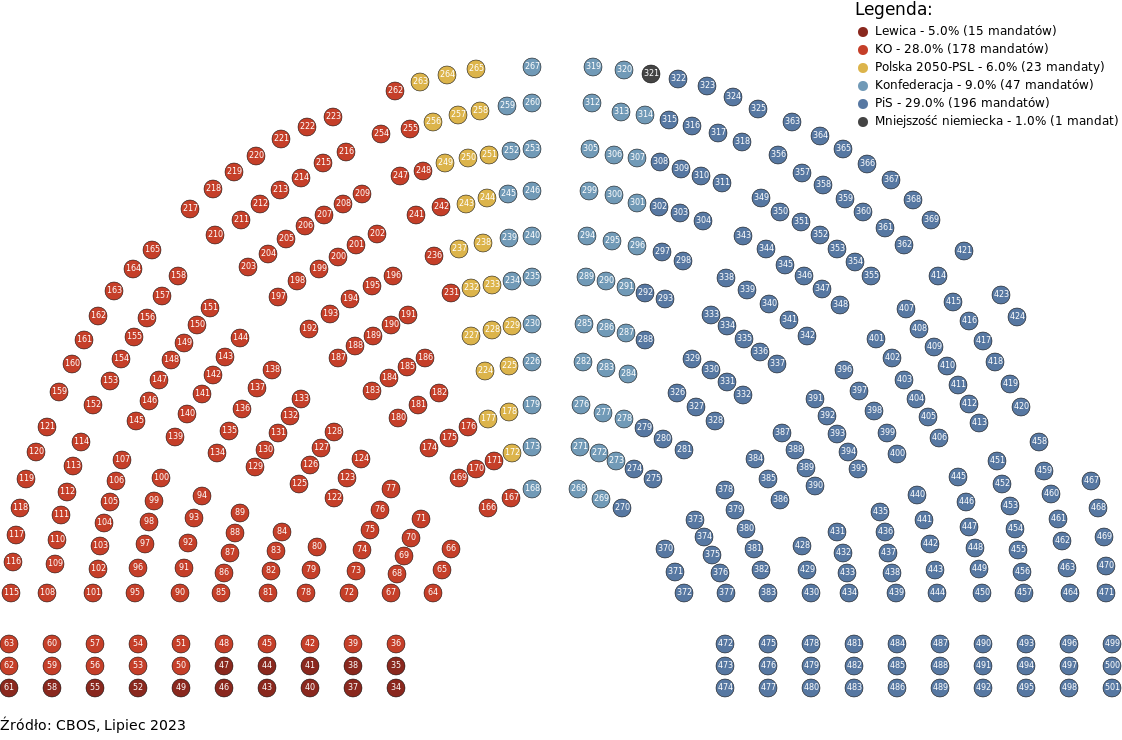
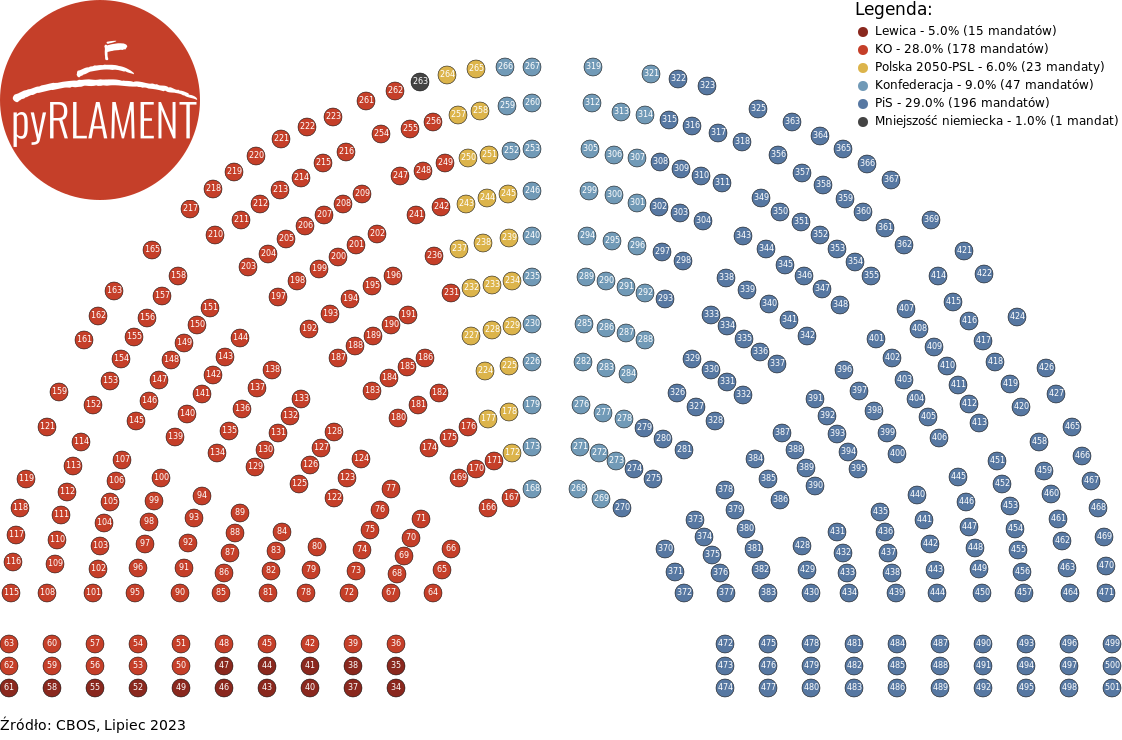
Patch (szpachla) for image conversion

diff --git a/pyrlament/generator.py b/pyrlament/generator.py
@@ -11,6 +11,8 @@ from pyrlament.configs import PYRLAMENT_PROPERTIES
 from pyrlament.data import GERMAN_MINORITY, Party
 
 
+from PIL import Image, ImageDraw, ImageFilter
+
 class Seat(BaseModel):
     cx: float
     cy: float
@@ -101,6 +103,8 @@ class SeatsGenerator:
     _include_seats_numbers: bool
     _seats_numbers_color: Optional[str]
     _skip_empty_seats: bool
+
+    _svg = None
 
     def __init__(
         self,
@@ -362,18 +366,15 @@ class SeatsGenerator:
                 self._set_seat_color(seat, color)
                 cnt += 1
 
-    def _get_svg(self):
-        svg = drawsvg.Drawing(1122, 740, overflow="hidden")
-        if self.parties and self.logotype:
-            svg.append(self._draw_logotype())
-            svg.append(
-                drawsvg.Text("https://pyrlament.pl", 12, 100, 160, fill="#ffffff", center=1, font_family="sans-serif", opacity=0.5)
-            )
-        if self.parties and self._include_legend:
-            svg.append(self._draw_legend())
-        svg.append(self._draw_seats())
-        svg.append(self._draw_caption())
-        return svg
+    def _get_svg(self, forced=False):
+        if not self._svg or forced:
+            self._svg = drawsvg.Drawing(1122, 740, overflow="hidden")
+            if self.parties and self.logotype:
+                self._svg.append(self._draw_logotype())
+            if self.parties and self._include_legend:
+                self._svg.append(self._draw_legend())
+            self._svg.append(self._draw_seats())
+            self._svg.append(self._draw_caption())
 
     def _draw_seats(self) -> drawsvg.Group:
         seats = drawsvg.Group(transform="translate(0 50)")
@@ -395,7 +396,7 @@ class SeatsGenerator:
         return seats
 
     def _draw_logotype(self) -> drawsvg.Image:
-        return drawsvg.Image(x="0", y="0", width="200", height="200", path=self.logotype, embed=True)
+        return drawsvg.Image(x="0", y="0", width="200", height="200", id="logo", path=self.logotype, embed=True)
 
     def _draw_caption(self) -> drawsvg.Text:
         return drawsvg.Text(self.caption, 14, 0, 730, fill="#000000", font_family="sans-serif")
@@ -429,17 +430,23 @@ class SeatsGenerator:
         return "mandatów"
 
     def get_svg(self):
-        svg = self._get_svg()
-        return svg.as_svg()
+        self._get_svg()
+        return self._svg.as_svg()
 
     def save_svg(self, svg_filename: str):
-        svg = self._get_svg()
-        svg.save_svg(svg_filename)
+        self._get_svg()
+        self._svg.save_svg(svg_filename)
 
-    @staticmethod
-    def convert_svg_to_png(svg_filename: str, png_filename: str):
-        with open(svg_filename, "rb") as svg_file:
-            PNGSurface.convert(bytestring=svg_file.read(), width=1122, height=841, write_to=open(png_filename, "wb"))
+    def save_png(self, png_filename: str):
+        self._get_svg()
+        self._svg.save_png(png_filename)
+        # lines below are only to fix bug with saving embed svg images to bitmaps in drawsvg lib
+        if self.logotype.find(".svg"):
+            logo = self.logotype.replace(".svg", ".png")
+            chart = Image.open(png_filename)
+            logotype = Image.open(logo)
+            chart.paste(logotype)
+            chart.save(png_filename)
 
     @staticmethod
     def hex_to_rgb(h: str) -> tuple:

diff --git a/pyrlament/scripts.py b/pyrlament/scripts.py
@@ -19,4 +19,4 @@ def demo():
     g = SeatsGenerator(parties=election.parties, caption="Źródło: CBOS, Lipiec 2023")
     g.colorize()
     g.save_svg("assets/pyrlament_sample.svg")
-    g.convert_svg_to_png("assets/pyrlament_sample.svg", "assets/pyrlament_sample.png")
+    g.save_png("assets/pyrlament_sample.png")

diff --git a/demo.py b/demo.py
@@ -21,4 +21,4 @@ for party in election.parties:
 g = SeatsGenerator(parties=election.parties, caption="Źródło: CBOS, Lipiec 2023")
 g.colorize()
 g.save_svg("assets/pyrlament_sample.svg")
-g.convert_svg_to_png("assets/pyrlament_sample.svg", "assets/pyrlament_sample.png")
+g.save_png("assets/pyrlament_sample.png")
